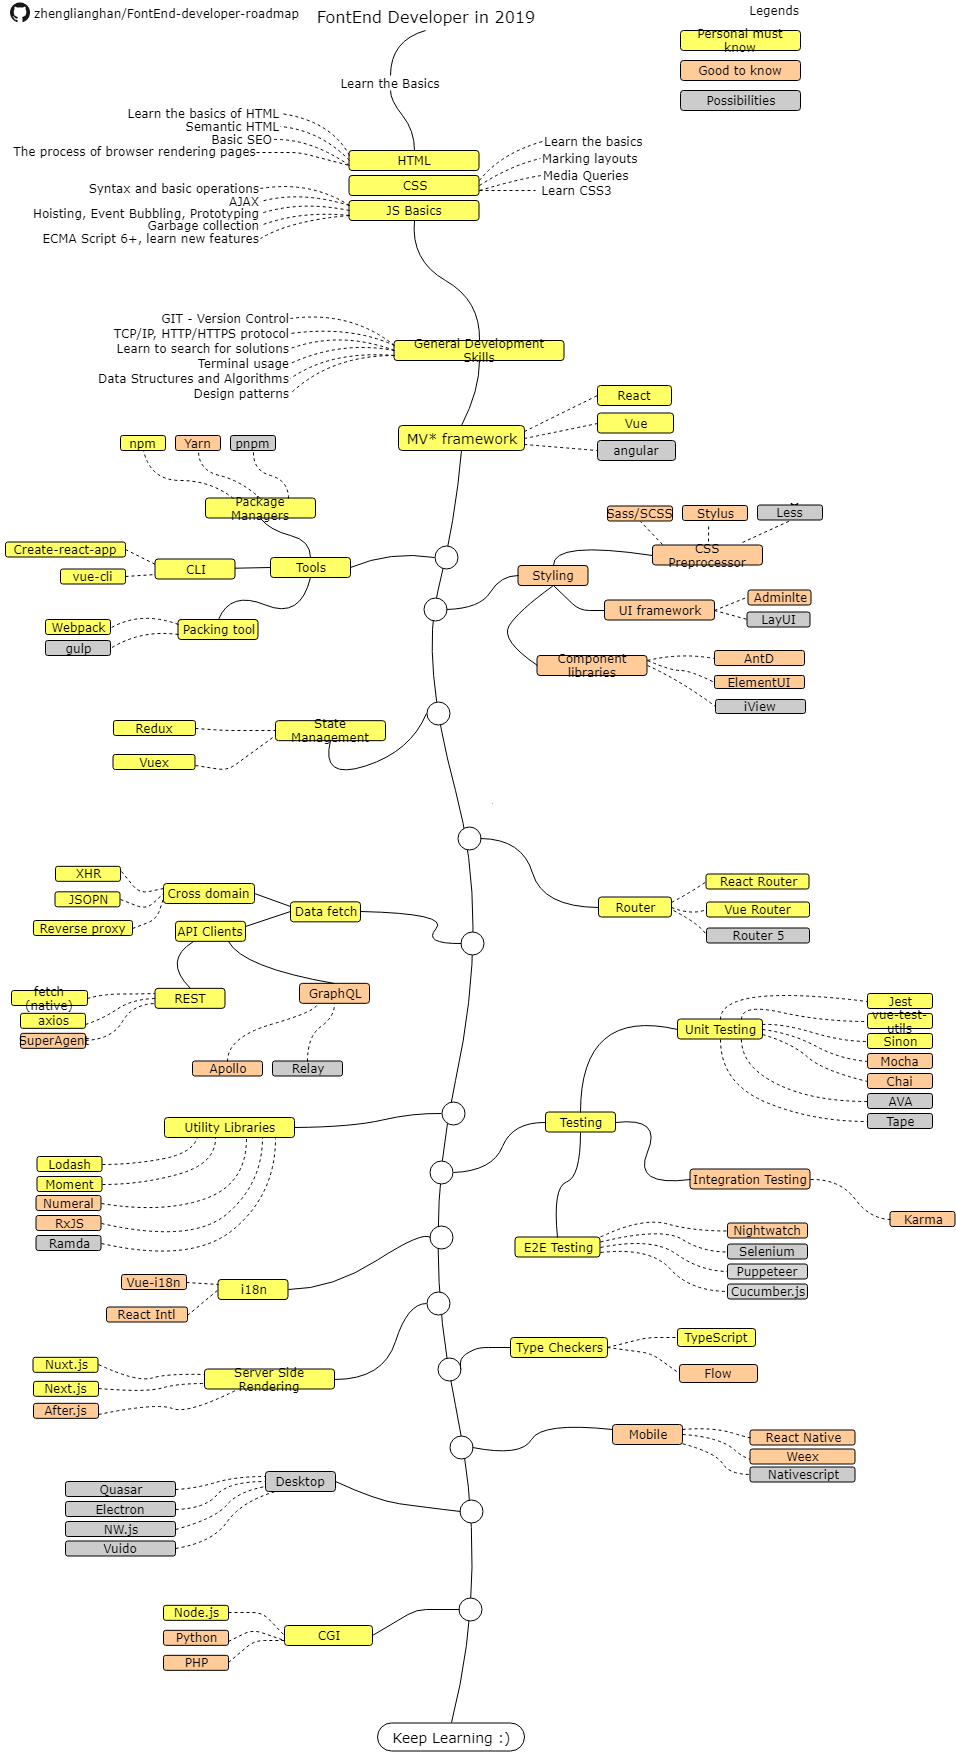
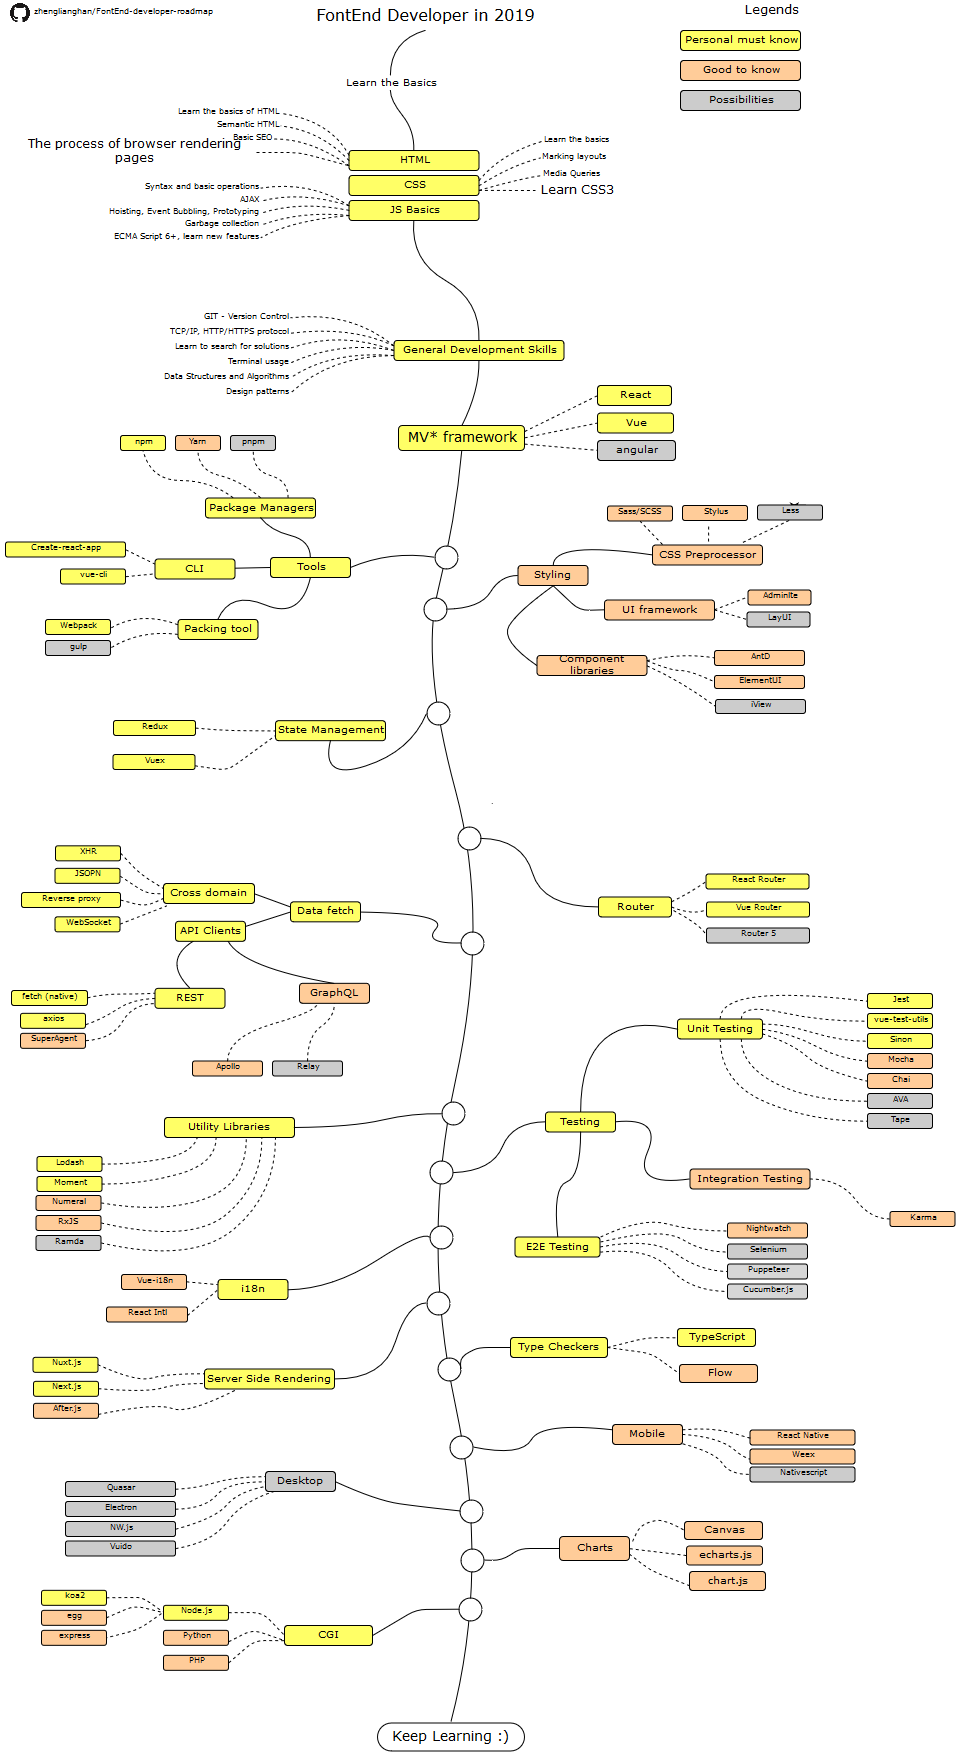
update

diff --git a/README.md b/README.md
@@ -72,6 +72,7 @@ Below you can find a chart demonstrating the paths that you can take and the lib
            * [Fetch](https://developer.mozilla.org/en-US/docs/Web/API/Fetch_API)
            * [SuperAgent](https://visionmedia.github.io/superagent/)
            * [axios](https://github.com/axios/axios)
+           * [WebSocket](https://developer.mozilla.org/en-US/docs/Web/API/WebSocket)
         2. GraphQL
            * [Apollo](https://www.apollographql.com/docs/react/)
            * [Relay](https://facebook.github.io/relay/)
@@ -119,10 +120,18 @@ Below you can find a chart demonstrating the paths that you can take and the lib
     * [Electron](https://electronjs.org/)
     * [NW.js](https://nwjs.io/)
     * [Vuido](https://vuido.mimec.org/)
-16. CGI
-    * [node.js](https://nodejs.org/en/)
-    * [python](https://www.python.org/)
-    * [PHP](https://www.php.net/)
+
+16. Chart
+    * [Canvas](https://developer.mozilla.org/en-US/docs/Web/API/Canvas_API/Tutorial)
+    * [Echarts](https://www.echartsjs.com/index.html)
+    * [Chart.js](https://www.chartjs.org/)
+17. CGI
+    1. [node.js](https://nodejs.org/en/)
+        * [Koa2](https://koa.bootcss.com/)
+        * [egg](https://eggjs.org/)
+        * [express](http://expressjs.com/)
+    2. [python](https://www.python.org/)
+    3. [PHP](https://www.php.net/)
 ## Wrap Up
 
 If you think the roadmap can be improved, please do open a PR with any updates and submit any issues. Also, I will continue to improve this, so you might want to star this repository to revisit.
